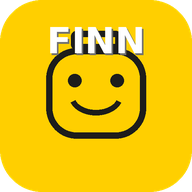
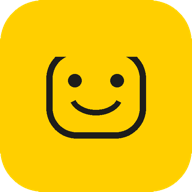
Website: neutrales Symbol und ein Riegel gegen alte Formatdateien
Das Symbol der Seite trug „FINN" – im Kopf, im Browser-Reiter und als
Lesezeichen auf dem Handy. Zusammen mit dem Impressum daneben, das Name
und Anschrift nennen muss, ist das genau die Verknüpfung, die hier nicht
entstehen soll. `icon-192.png` und `favicon.ico` kommen jetzt aus
`frontend/icons/icon-basis.png`, also ohne Schriftzug.

Und die Formatdatei hängt an einer Fassungsnummer. Auf Svens iPhone stand
am 20.09.2026 noch das alte Format, während die Seite selbst schon die neue
war: Die Seite wird bei jedem Aufruf neu geholt (max-age=0), die
Formatdatei dahinter aber nur beim ausdrücklichen Neuladen. Nachgemessen
hat die veröffentlichte Seite bei 360 bis 440 Pixeln Breite keinen Überlauf
mehr – das Bild vom Telefon zeigte den Stand davor.

diff --git a/website/index.html b/website/index.html
@@ -12,7 +12,13 @@
 <meta property="og:image" content="https://brickfolio.cc/assets/sammlung.png">
 <link rel="icon" href="assets/favicon.ico">
 <link rel="apple-touch-icon" href="assets/icon-192.png">
-<link rel="stylesheet" href="style.css">
+<!-- Die Fassung hinter dem Fragezeichen bei jeder Aenderung an
+     style.css hochzaehlen. Sonst zeigt ein Handy, dessen Reiter
+     offen geblieben ist, tagelang das alte Format: Die Seite selbst
+     wird zwar jedes Mal neu geholt (max-age=0), die Formatdatei
+     dahinter aber nicht. Am 20.09.2026 stand deshalb auf Svens
+     iPhone noch die Fassung mit dem Ueberlauf. -->
+<link rel="stylesheet" href="style.css?v=20260920">
 </head>
 <body>
 

diff --git a/website/datenschutz.html b/website/datenschutz.html
@@ -6,7 +6,13 @@
 <title>Datenschutz – Brickfolio</title>
 <meta name="robots" content="noindex">
 <link rel="icon" href="assets/favicon.ico">
-<link rel="stylesheet" href="style.css">
+<!-- Die Fassung hinter dem Fragezeichen bei jeder Aenderung an
+     style.css hochzaehlen. Sonst zeigt ein Handy, dessen Reiter
+     offen geblieben ist, tagelang das alte Format: Die Seite selbst
+     wird zwar jedes Mal neu geholt (max-age=0), die Formatdatei
+     dahinter aber nicht. Am 20.09.2026 stand deshalb auf Svens
+     iPhone noch die Fassung mit dem Ueberlauf. -->
+<link rel="stylesheet" href="style.css?v=20260920">
 </head>
 <body>
 <div class="studs"><i></i><i></i><i></i><i></i></div>

diff --git a/website/impressum.html b/website/impressum.html
@@ -6,7 +6,13 @@
 <title>Impressum – Brickfolio</title>
 <meta name="robots" content="noindex">
 <link rel="icon" href="assets/favicon.ico">
-<link rel="stylesheet" href="style.css">
+<!-- Die Fassung hinter dem Fragezeichen bei jeder Aenderung an
+     style.css hochzaehlen. Sonst zeigt ein Handy, dessen Reiter
+     offen geblieben ist, tagelang das alte Format: Die Seite selbst
+     wird zwar jedes Mal neu geholt (max-age=0), die Formatdatei
+     dahinter aber nicht. Am 20.09.2026 stand deshalb auf Svens
+     iPhone noch die Fassung mit dem Ueberlauf. -->
+<link rel="stylesheet" href="style.css?v=20260920">
 </head>
 <body>
 <div class="studs"><i></i><i></i><i></i><i></i></div>
